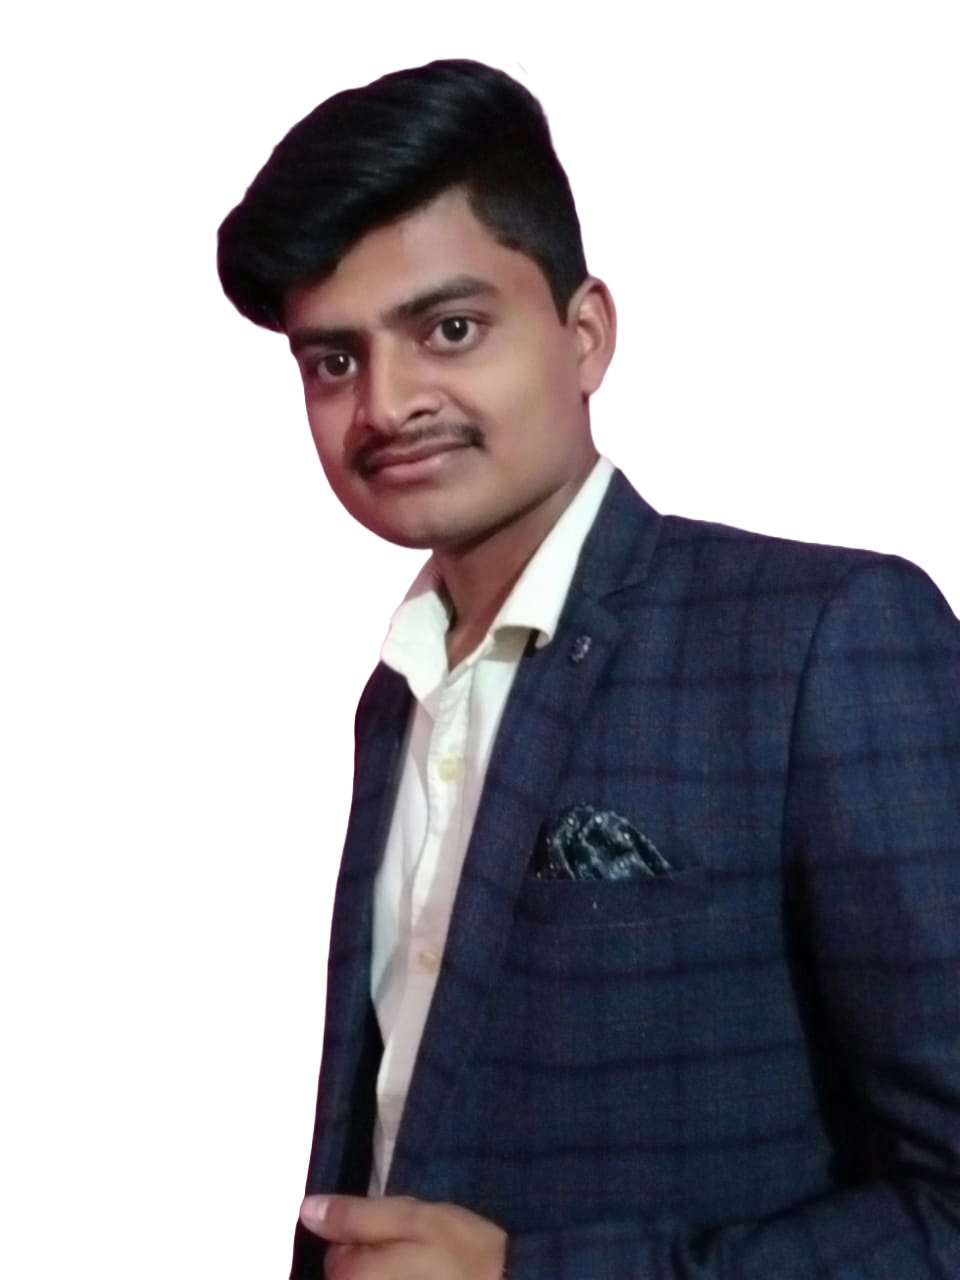
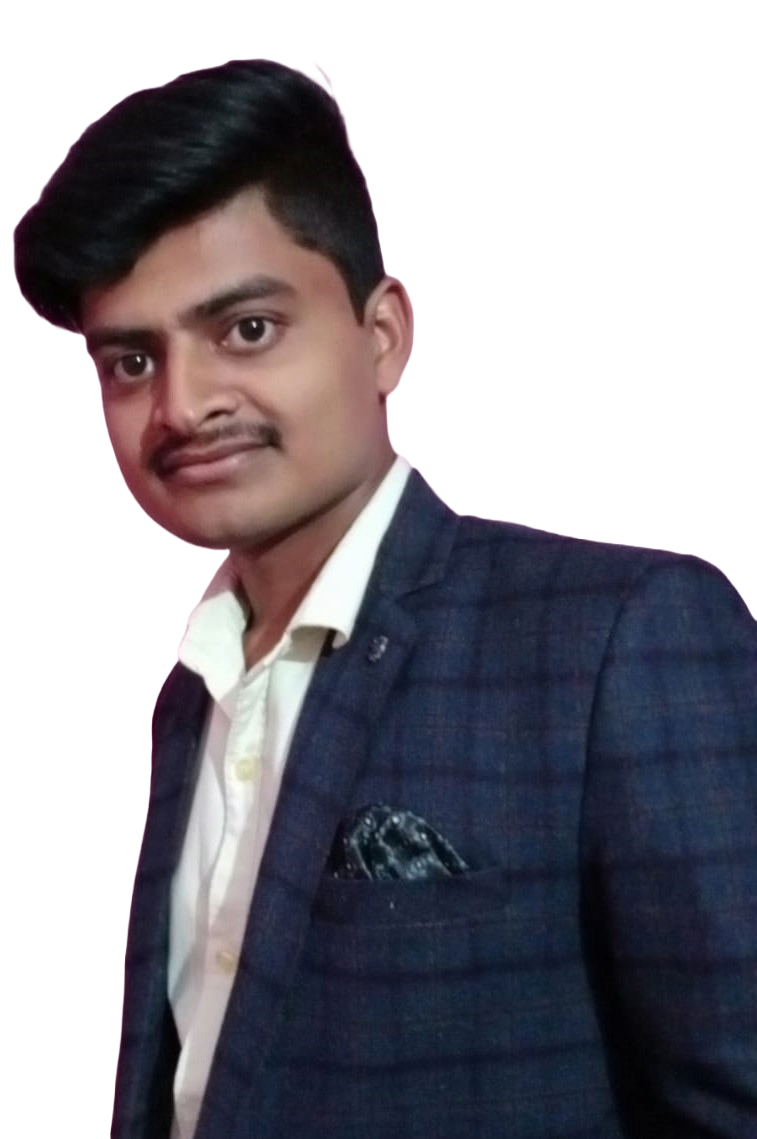
add photo 2

diff --git a/components/HomePage.jsx b/components/HomePage.jsx
@@ -44,7 +44,7 @@ const HomePage = () => {
           </div>
 
           <div className="w-[298px] h-[298px] xl:w-[498] xl:h-[300px] border-[4px] border-accent rounded-full flex justify-center items-center mb-5 bg-pink-50/5">
-            <Image src={self} alt="img" className=" h-[220px] w-[220px] mb-8 mr-8 mix-blend-lighten" />
+            <Image src={self} alt="img" className=" h-[200px] w-[200px] mb-8 mix-blend-lighten" />
           </div>
         </div>
         
